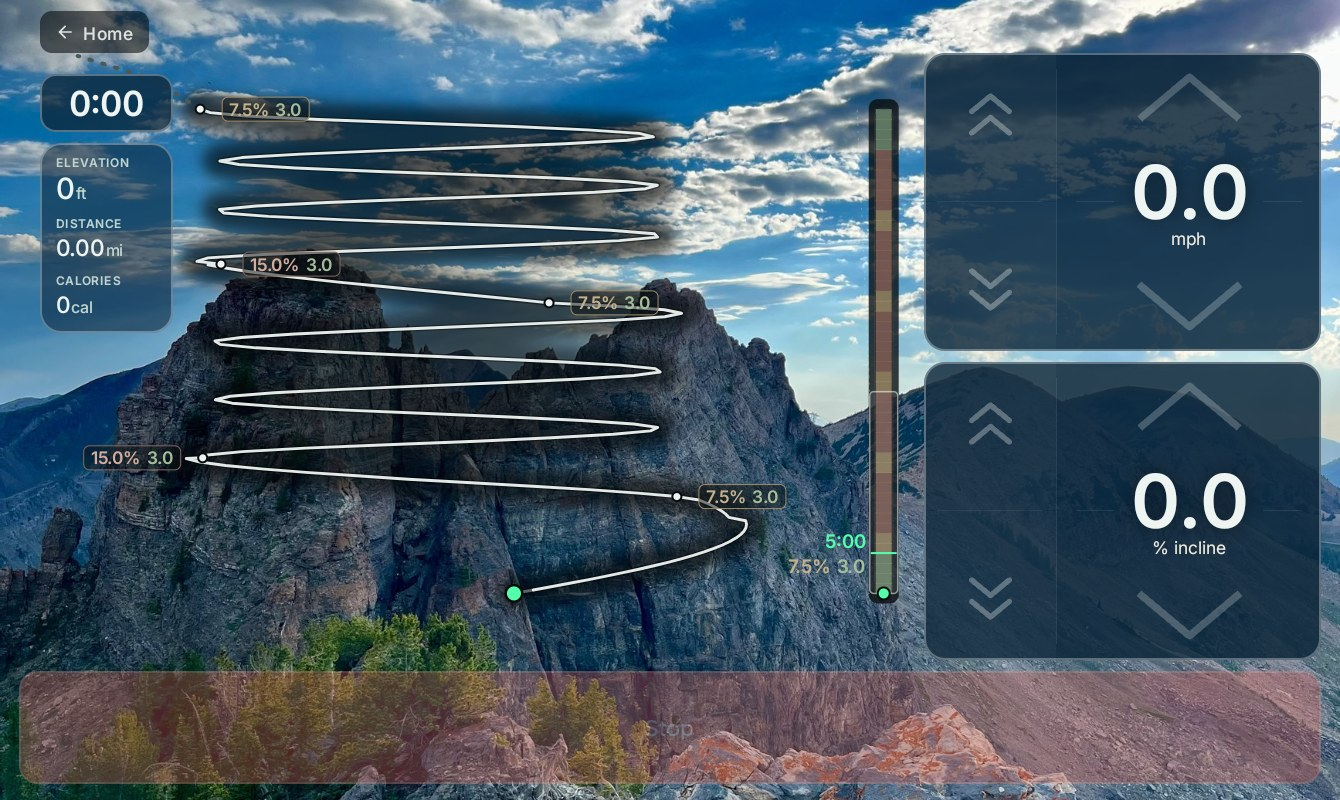
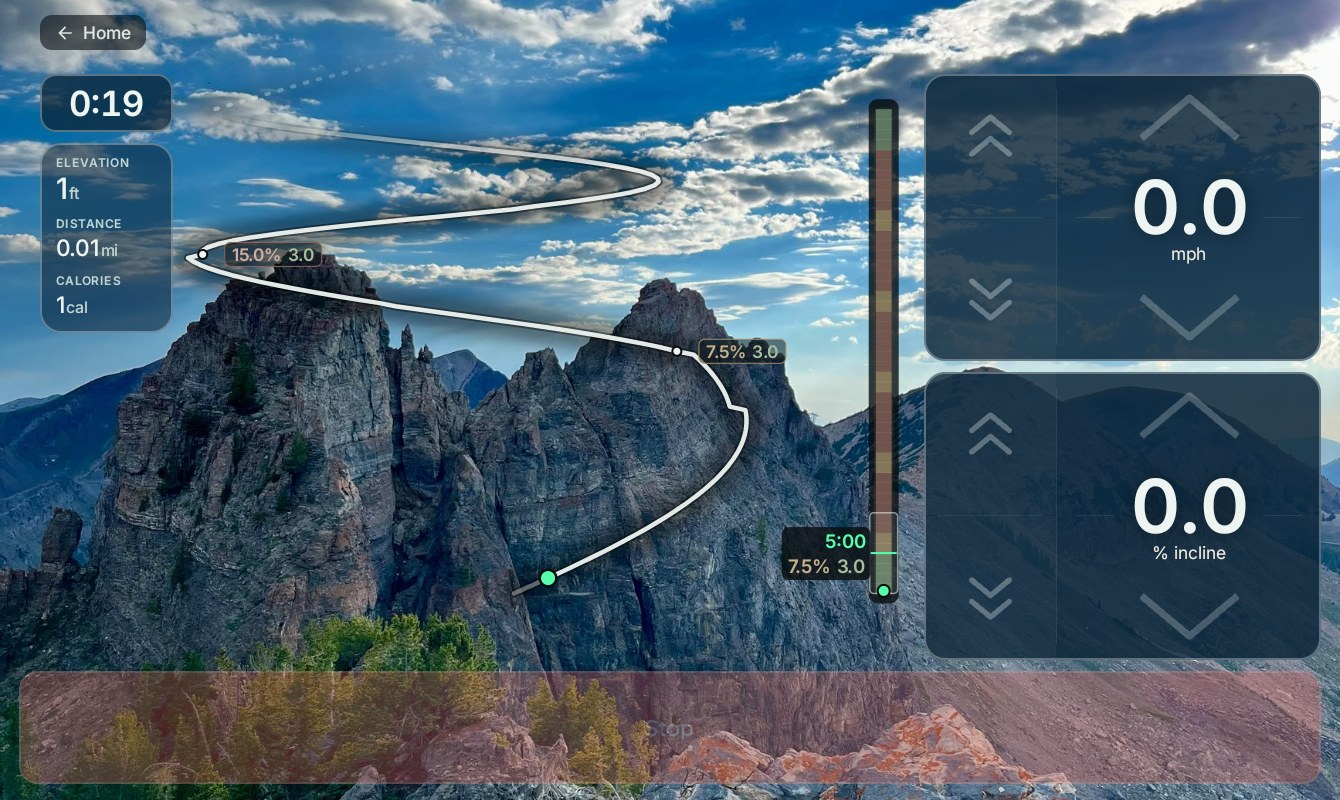
docs: refresh README screenshots to current HUD; codify screenshot-refresh rule
Recaptured on the tablet with the latest build (thicker trail thread, organic
window fade, strip label islands, background-selector era). CLAUDE.md's Docs
Stay Current section now requires recapturing docs/screenshots/ as part of any
landing that changes the UI they show — a landing isn't complete while the
README shows the old UI.

Claude-Session: https://claude.ai/code/session_01Gopx84MbomUJwTr592YXHN

diff --git a/CLAUDE.md b/CLAUDE.md
@@ -345,6 +345,10 @@ In practice:
 
 ### Docs Stay Current
 - **CLAUDE.md must reflect reality.** If you add a feature, endpoint, mode, or dependency, update this file. Stale docs are a bug.
+- **README screenshots must reflect main.** When a change that alters UI shown in
+  `docs/screenshots/` lands on main, recapture those screenshots (prefer the real
+  tablet) and land the refreshed images too. A landing isn't complete while the
+  README shows the old UI.
 - Inline comments only where the "why" isn't obvious. Don't comment the "what."
 
 ### Tests Are Real
